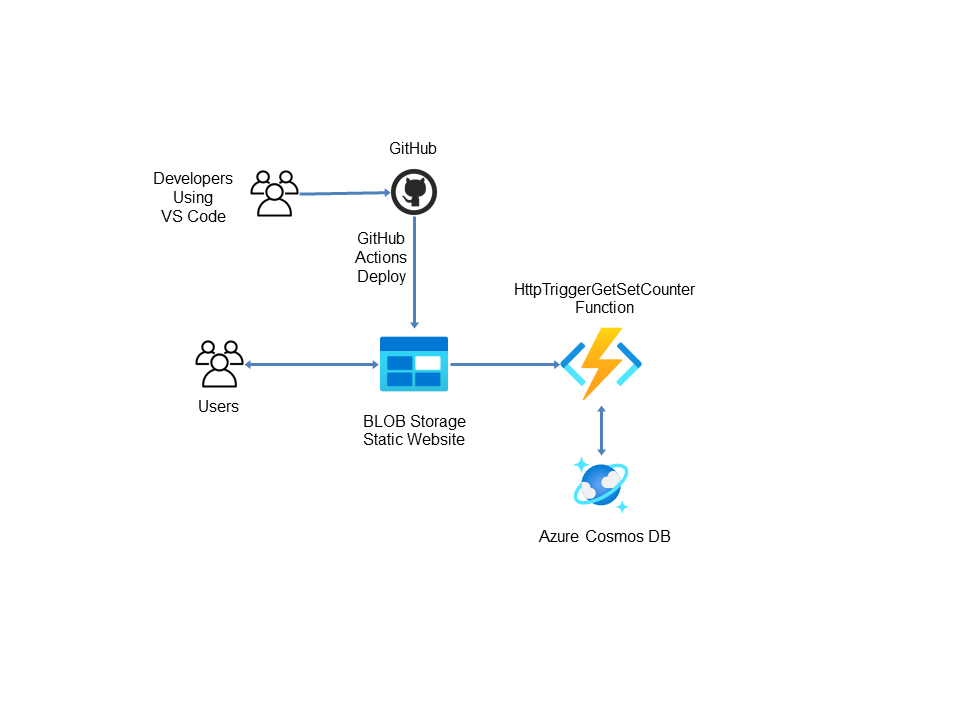
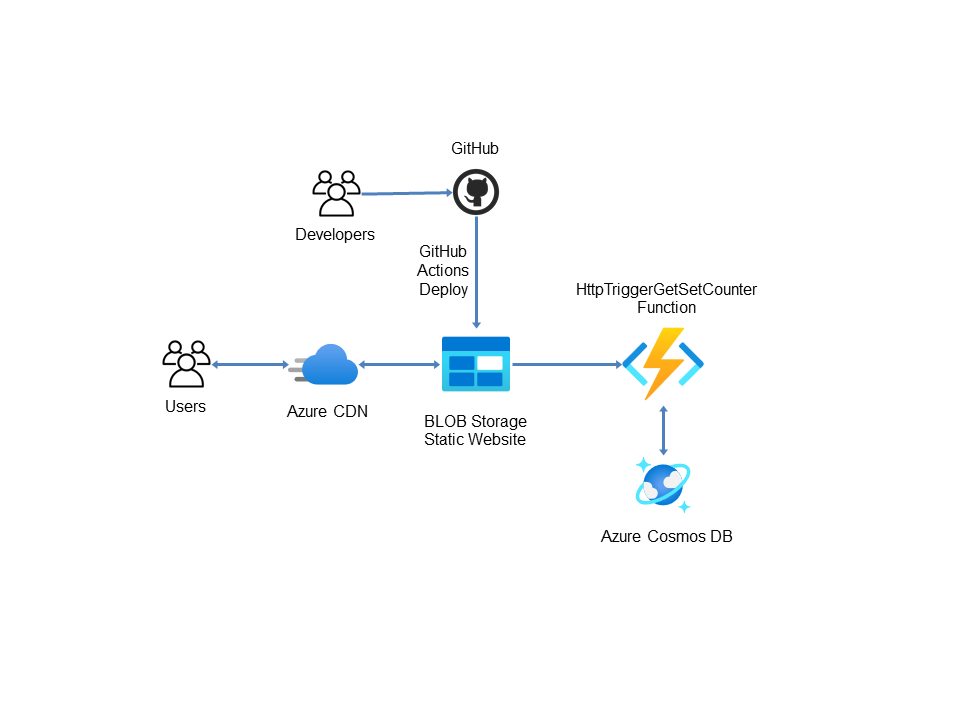
ceevee #8

diff --git a/README.md b/README.md
@@ -3,11 +3,11 @@ A Cloud Guru Challenge - https://acloudguru.com/blog/engineering/cloudguruchalle
 
 Objective
 ---------
-![Alt text](readme_images/resume-challenge.png?raw=true "A Cloud Guru Challenge Diagram")
+![Alt text](readme_images/resume-challenge.png?raw=true "A Cloud Guru Challenge Objective Diagram")
 
 Solution
 --------
-![Alt text](readme_images/github-actions-cicd-project.png?raw=true "Azure Static Website GitHub Actions Project Diagram")
+![Alt text](readme_images/github-actions-cicd-project.png?raw=true "Azure Static Website GitHub Actions Solution Diagram")
 
 ## Azure CLI Resource Group Creation
 
@@ -45,7 +45,7 @@ Solution
 > az cdn endpoint rule add --resource-group StaticWebsiteRG --name brian-gaber --profile-name MyCDNProfile --order 1 --rule-name "redirect" --match-variable RequestScheme --operator Equal --match-values HTTP --action-name "UrlRedirect" --redirect-protocol Https --redirect-type Moved
 ```
 
-### Create a canonical name (CNAME) record with Azure DNS or your DNS provider to point to your CDN endpoint.
+### Before you can use a custom domain with an Azure CDN endpoint, you must first create a canonical name (CNAME) record with Azure DNS or your DNS provider to point to your CDN endpoint.
 ### https://docs.microsoft.com/en-us/azure/cdn/cdn-map-content-to-custom-domain
 
 ## Azure CLI Create a custom domain for your endpoint
@@ -66,6 +66,8 @@ az cdn custom-domain enable-https --resource-group StaticWebsiteRG --endpoint-na
 ```
 > az cdn endpoint purge --content-paths  "/*" --profile-name MyCDNProfile --name "brian-gaber" --resource-group "StaticWebsiteRG"
 ```
+
+### Before the Resource Group containing the CDN Profile can be deleted the DNS CNAME record that points to the CDN endpoint must be removed from Azure DNS or your DNS provider
 
 ## Azure CLI Resource Group Deletion
 
